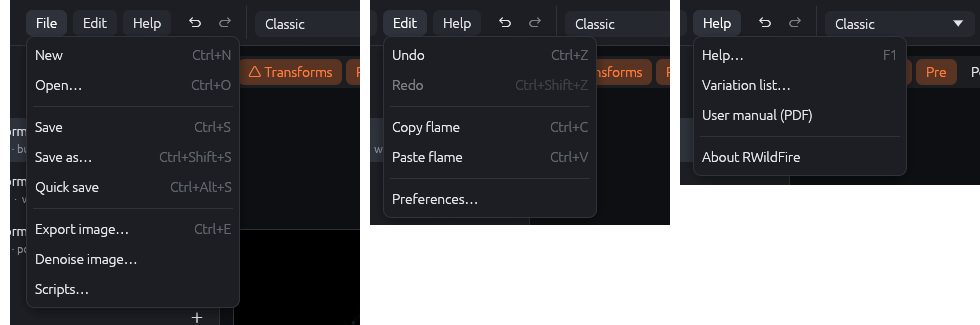
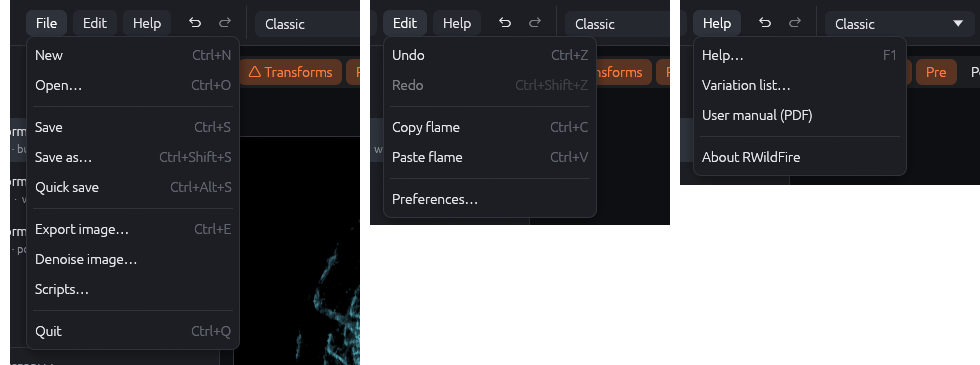
Explore strip: mouse wheel scrolls, new batches show their first flame; File > Quit
- The mouse wheel scrolls the Explore strip and the movie parts sideways (no Shift needed).
- A new batch (and a snapshot) scrolls the strip to its first new flame: the start for
  replace/insert, the first appended flame for append.
- File > Quit (Ctrl+Q) closes the application.
- Manual updated, version 1.2.0.

diff --git a/crates/rwf-app/src/explorer.rs b/crates/rwf-app/src/explorer.rs
@@ -131,6 +131,8 @@ pub struct Explorer {
     pub open_mutagen: bool,
     /// The strips of the modes (random, mutations, file).
     strips: [Vec<Slot>; 3],
+    /// Slot to scroll a strip to on the next frame (the first flame of a new batch).
+    scroll_to: [Option<usize>; 3],
     /// The running batch of each strip; a batch stops when it no longer matches.
     batches: [Arc<AtomicU64>; 3],
     next_key: u64,
@@ -154,6 +156,7 @@ impl Default for Explorer {
             strength: 0.5,
             open_mutagen: false,
             strips: Default::default(),
+            scroll_to: Default::default(),
             batches: Default::default(),
             next_key: 1,
             tx,
@@ -186,18 +189,24 @@ impl Explorer {
         self.next_key += count as u64;
         let slots = keys.iter().map(|&key| Slot { key, thumb: None });
         let list = &mut self.strips[strip];
-        match refresh {
-            RefreshMode::Clear => *list = slots.collect(),
+        // Show the new flames: they start at the left, or at the old end when appended.
+        self.scroll_to[strip] = Some(match refresh {
+            RefreshMode::Clear => {
+                *list = slots.collect();
+                0
+            }
             RefreshMode::Insert => {
                 list.splice(0..0, slots);
                 list.truncate(MAX_SLOTS);
+                0
             }
             RefreshMode::Append => {
                 list.extend(slots);
                 let extra = list.len().saturating_sub(MAX_SLOTS);
                 list.drain(..extra);
+                list.len().saturating_sub(count)
             }
-        }
+        });
         let batch = self.batches[strip].load(Ordering::Relaxed);
         let (keys, next) = (Arc::new(keys), Arc::new(AtomicUsize::new(0)));
         let threads = (crate::settings::cpu_threads() / 2).max(1).clamp(1, count.max(1));
@@ -262,6 +271,7 @@ impl Explorer {
         self.next_key += 1;
         self.strips[0].insert(0, Slot { key, thumb: None });
         self.strips[0].truncate(MAX_SLOTS);
+        self.scroll_to[0] = Some(0);
         let (tx, source) = (self.tx.clone(), Source::Snapshot(Arc::new(flame.clone())));
         std::thread::spawn(move || {
             let flame = source.flame(0, &mut Rng::new(1));
@@ -363,6 +373,7 @@ impl Explorer {
             }
         });
         ui.add_space(4.0);
+        let jump = self.scroll_to[strip_index(self.mode)].take();
         let strip = &self.strips[strip_index(self.mode)];
         let size = vec2(THUMB_W as f32, THUMB_H as f32) * 0.85;
         if strip.is_empty() {
@@ -371,7 +382,13 @@ impl Explorer {
             ui.painter().text(rect.left_center() + vec2(8.0, 0.0), egui::Align2::LEFT_CENTER, text, egui::FontId::proportional(13.0), theme::TEXT_MUTED);
             return None;
         }
-        egui::ScrollArea::horizontal().show(ui, |ui| {
+        let mut area = egui::ScrollArea::horizontal().id_salt(("explore-strip", strip_index(self.mode)));
+        if let Some(i) = jump {
+            area = area.horizontal_scroll_offset(i as f32 * (size.x + ui.spacing().item_spacing.x));
+        }
+        // The mouse wheel scrolls the strip sideways (without Shift).
+        ui.style_mut().always_scroll_the_only_direction = true;
+        area.show(ui, |ui| {
             ui.horizontal(|ui| {
                 for (slot_index, slot) in strip.iter().enumerate() {
                     let (rect, resp) = ui.allocate_exact_size(size, Sense::click());

diff --git a/crates/rwf-app/src/app.rs b/crates/rwf-app/src/app.rs
@@ -284,6 +284,7 @@ impl RwfApp {
             Action::About => self.help.open_at(crate::help::Tab::About),
             Action::DenoiseImage => self.image_denoiser.open = true,
             Action::Scripts => self.scripts.open(),
+            Action::Quit => ctx.send_viewport_cmd(egui::ViewportCommand::Close),
             Action::UserManual => match crate::help::open_user_manual() {
                 Ok(p) => self.notify(format!("Opening {}", p.display())),
                 Err(e) => self.notify(e),
@@ -382,6 +383,8 @@ impl RwfApp {
                 act = Some(Action::New);
             } else if i.consume_shortcut(&KeyboardShortcut::new(c, Key::E)) {
                 act = Some(Action::Export);
+            } else if i.consume_shortcut(&KeyboardShortcut::new(c, Key::Q)) {
+                act = Some(Action::Quit);
             } else if i.consume_key(Modifiers::NONE, Key::F1) {
                 act = Some(Action::Help);
             } else if !typing && i.consume_key(Modifiers::NONE, Key::Space) {

diff --git a/crates/rwf-app/src/ui/topbar.rs b/crates/rwf-app/src/ui/topbar.rs
@@ -49,6 +49,7 @@ pub enum Action {
     DenoiseImage,
     Scripts,
     UserManual,
+    Quit,
 }
 
 pub struct TopBarInfo<'a> {
@@ -101,6 +102,10 @@ pub fn show(ui: &mut Ui, info: &TopBarInfo, generator: &mut Generator, extras: &
             }
             if ui.button("Scripts…").on_hover_text("Lua scripts that build or change flames: examples, your own scripts and an editor").clicked() {
                 action = Some(Action::Scripts);
+            }
+            ui.separator();
+            if item(ui, "Quit", "Ctrl+Q").on_hover_text("Closes RWildFire, like the window's close button").clicked() {
+                action = Some(Action::Quit);
             }
         });
         ui.menu_button("Edit", |ui| {

diff --git a/crates/rwf-app/src/movie_view.rs b/crates/rwf-app/src/movie_view.rs
@@ -647,6 +647,8 @@ impl MovieView {
         let current = self.movie.part_at(self.frame as f64).map(|(i, _)| i);
         let mut action: Option<(usize, i32)> = None;
         let mut changed = false;
+        // The mouse wheel scrolls the parts sideways (without Shift).
+        ui.style_mut().always_scroll_the_only_direction = true;
         egui::ScrollArea::horizontal().id_salt("movie-parts-scroll").show(ui, |ui| {
             ui.horizontal(|ui| {
                 let n = self.movie.parts.len();

diff --git a/crates/rwf-app/src/help.rs b/crates/rwf-app/src/help.rs
@@ -163,6 +163,7 @@ const SHORTCUTS: &[(&str, &str)] = &[
     ("Ctrl+S / Ctrl+Shift+S", "Save / save as"),
     ("Ctrl+Alt+S", "Quick save (no dialog)"),
     ("Ctrl+E", "Export an image or animation"),
+    ("Ctrl+Q", "Quit"),
     ("Ctrl+Z / Ctrl+Shift+Z, Ctrl+Y", "Undo / redo"),
     ("Ctrl+C / Ctrl+V", "Copy / paste the flame as text"),
     ("Space", "Random flame; play/pause while the timeline is open"),

diff --git a/docs/manual/08-making-flames.md b/docs/manual/08-making-flames.md
@@ -56,7 +56,8 @@ The sliders button next to the generator menu adds extras to every random flame:
 ## The Explore strip
 
 **Explore** in the top bar shows a strip below the canvas with batches of flames to choose
-from. Click a thumbnail to load the flame into the editor (one undo step). The strip has three
+from. Click a thumbnail to load the flame into the editor (one undo step). The mouse wheel
+scrolls the strip sideways; after a new batch, the strip shows its first new flame. The strip has three
 modes:
 
 ### Random

diff --git a/docs/manual/15-reference.md b/docs/manual/15-reference.md
@@ -9,6 +9,7 @@
 | <kbd>Ctrl</kbd>+<kbd>S</kbd> / <kbd>Ctrl</kbd>+<kbd>Shift</kbd>+<kbd>S</kbd> | Save / save as |
 | <kbd>Ctrl</kbd>+<kbd>Alt</kbd>+<kbd>S</kbd> | Quick save |
 | <kbd>Ctrl</kbd>+<kbd>E</kbd> | Export an image or animation |
+| <kbd>Ctrl</kbd>+<kbd>Q</kbd> | Quit |
 | <kbd>Ctrl</kbd>+<kbd>Z</kbd> | Undo |
 | <kbd>Ctrl</kbd>+<kbd>Shift</kbd>+<kbd>Z</kbd>, <kbd>Ctrl</kbd>+<kbd>Y</kbd> | Redo |
 | <kbd>Ctrl</kbd>+<kbd>C</kbd> / <kbd>Ctrl</kbd>+<kbd>V</kbd> | Copy / paste the flame as text |

diff --git a/docs/manual/03-editor.md b/docs/manual/03-editor.md
@@ -59,6 +59,7 @@ From left to right:
 | Export image… | <kbd>Ctrl</kbd>+<kbd>E</kbd> | Renders and saves an image or animation (chapter "Exporting"). |
 | Denoise image… | | Runs the AI denoiser on any PNG or JPEG file. |
 | Scripts… | | Opens the scripts window (chapter "Scripting"). |
+| Quit | <kbd>Ctrl</kbd>+<kbd>Q</kbd> | Closes RWildFire, like the window's close button. Unsaved changes are not asked for: save first. |
 
 ![File › Denoise image…](images/denoise-image.png){: .third}
 

diff --git a/docs/manual/11-render-workspace.md b/docs/manual/11-render-workspace.md
@@ -140,7 +140,7 @@ camera and transform **scripts** keep everything in motion.
 
 ### Parts
 
-The strip at the bottom shows the parts in order:
+The strip at the bottom shows the parts in order (the mouse wheel scrolls it sideways):
 
 - **Editor flame**, **Files…** and **Random flame** (from the top bar's generator) add parts.
 - Each part shows its length in frames (**fr**), the transition into the next part (**Fade**
